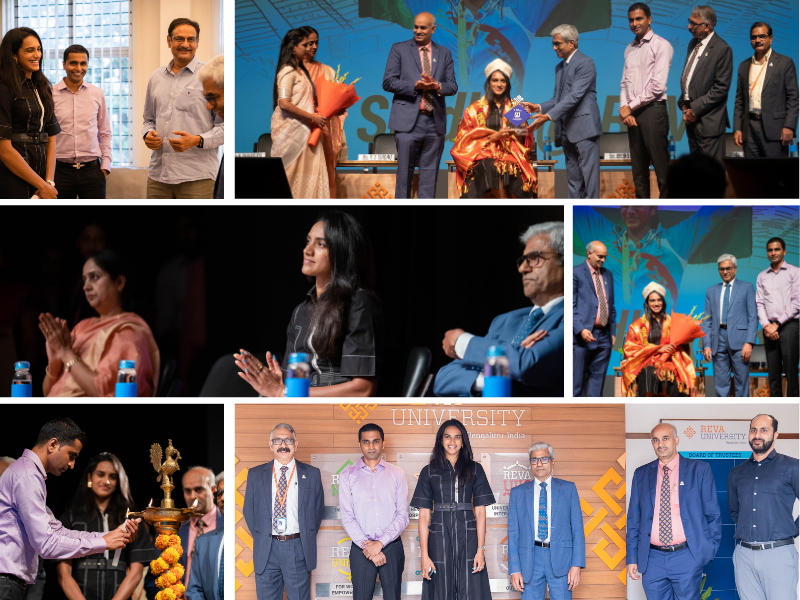
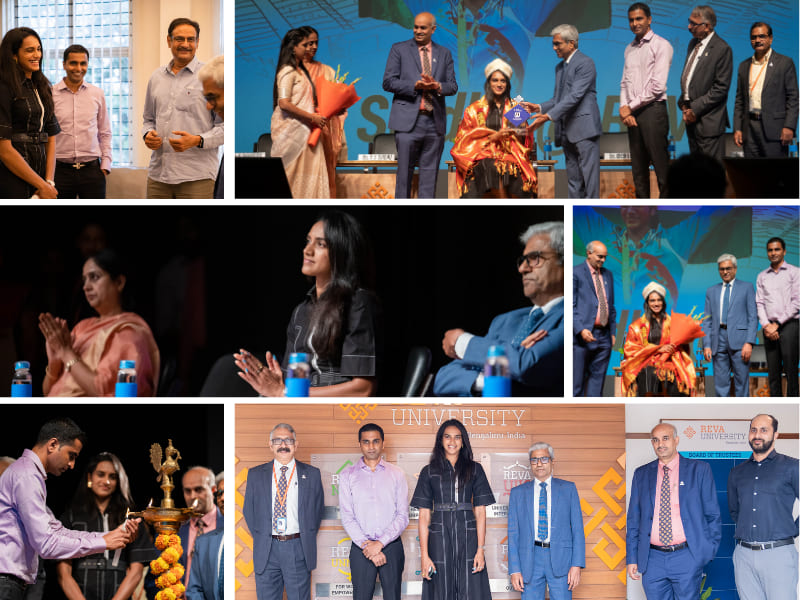
compressed files

Changed region(s): [[0.8125, 0.84, 0.8438, 0.9], [0.3438, 0.81, 0.375, 0.87], [0.625, 0.15, 0.6562, 0.18]]

diff --git a/index.html b/index.html
@@ -540,7 +540,7 @@
         </div>
         </div>
         <div class="main-slide">
-          <div style="background-image: url('./images/event_collage.jpeg');">
+          <div style="background-image: url('./images/event_collage-min.jpeg');">
           <!-- <img src="./images/event_collage.jpeg"> -->
           </div>
           <div style="background-image: url('./images/founders_day.jpeg');">
@@ -581,7 +581,7 @@
         </ol>
         <div class="carousel-inner">
           <div class="carousel-item active">
-            <img src="./images/event_collage.jpeg" alt="...">
+            <img src="./images/event_collage-min.jpeg" alt="...">
             
           </div>
           <div class="carousel-item mobile-gallery-item">
@@ -876,7 +876,7 @@
       <script src="js/faq.js"></script>
 
       <script src="faq.js"></script>
-      <script src="/js/mobile-gallery.js"></script>
+      <!-- <script src="/js/mobile-gallery.js"></script> -->
 
 
 

diff --git a/css/templatemo-festava-live.css b/css/templatemo-festava-live.css
@@ -517,7 +517,7 @@ strong {
 
 .site-footer-top {
   background-color: var(--secondary-color);
-  background-image: url("../images/nainoa-shizuru-NcdG9mK3PBY-unsplash.jpg");
+  /* background-image: url("../images/nainoa-shizuru-NcdG9mK3PBY-unsplash.jpg"); */
   background-repeat: no-repeat;
   margin-bottom: 70px;
   padding-top: 30px;
